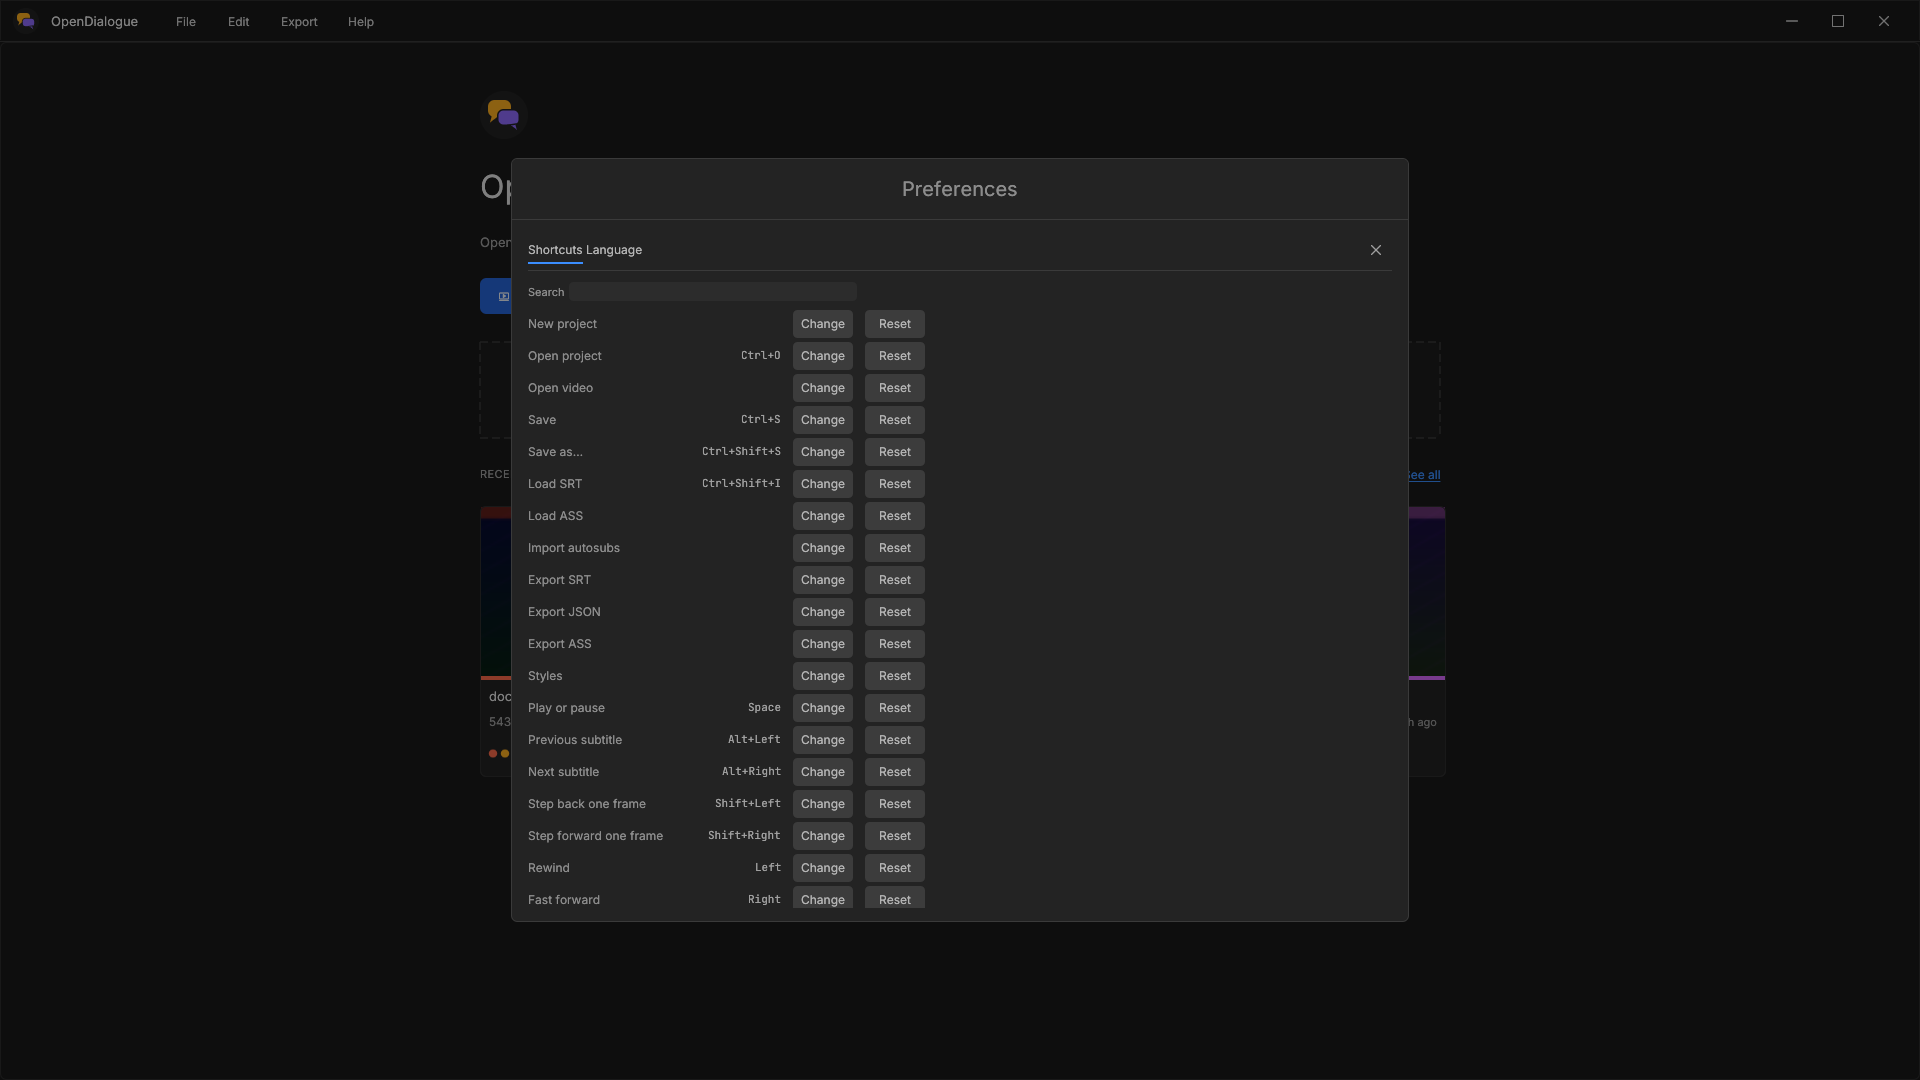
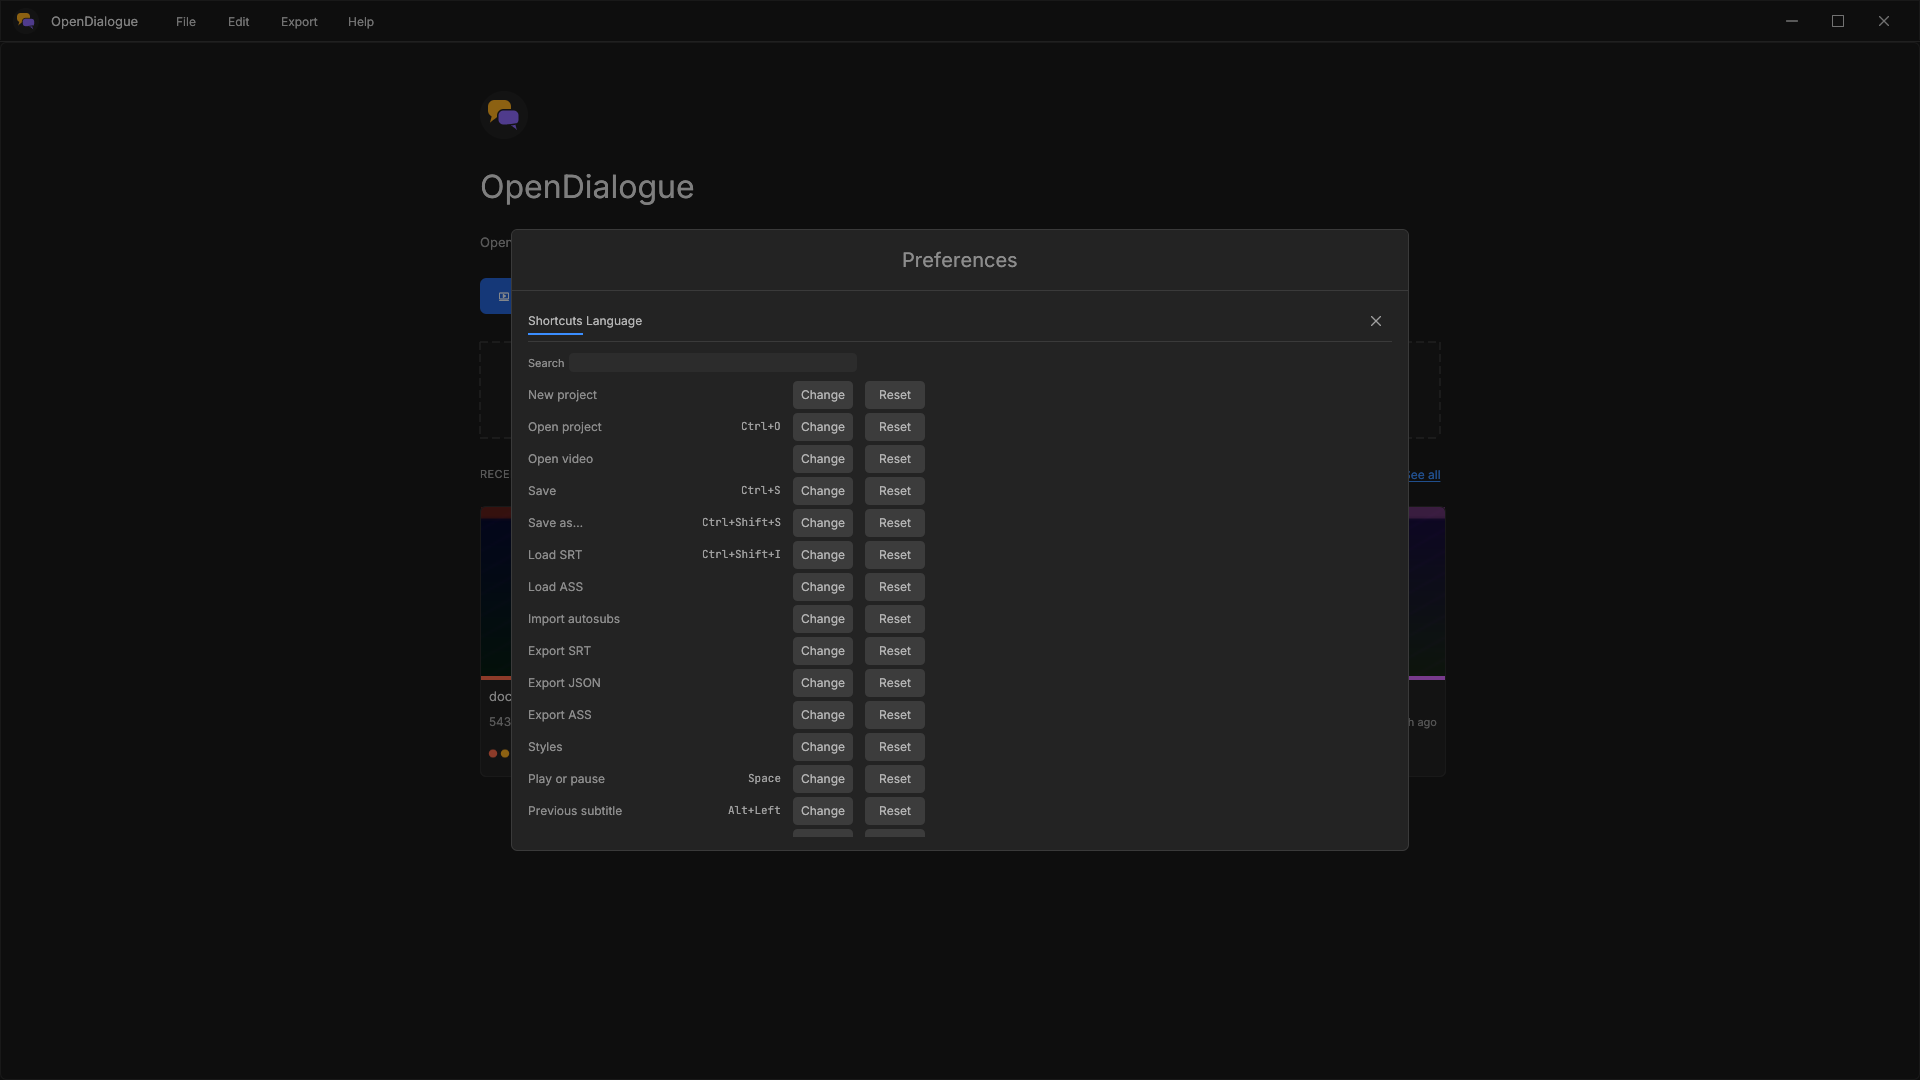
fix(ui): diálogos con scroll visible y atajo '?'

diff --git a/crates/app/src/ui/ajustes.rs b/crates/app/src/ui/ajustes.rs
@@ -133,7 +133,9 @@ pub fn mostrar(ctx: &egui::Context, prefs: &mut Preferencias, estado: &mut Estad
     // estrecho que un panel cómodo, con los topes tomados de `tema`.
     let pantalla = ctx.content_rect().size();
     let ancho = (pantalla.x * 0.45).clamp(tema::ANCHO_PANEL_DEFECTO * 2.0, tema::ANCHO_CONTENEDOR);
-    let alto = (pantalla.y * 0.62).clamp(tema::ALTO_VIDEO_MIN * 4.0, tema::ESP_72 * 10.0);
+    let alto = (pantalla.y * 0.62)
+        .clamp(tema::ALTO_VIDEO_MIN * 4.0, tema::ESP_72 * 10.0)
+        .min(pantalla.y - tema::ESP_32);
     let marco = egui::Frame {
         inner_margin: egui::Margin::same(tema::ESP_16 as i8),
         outer_margin: egui::Margin::ZERO,
@@ -278,79 +280,88 @@ pub fn mostrar(ctx: &egui::Context, prefs: &mut Preferencias, estado: &mut Estad
                         .map(|atajo| ancho_texto(ui, &atajo.to_string(), fuente_mono.clone()))
                         .fold(0.0, f32::max)
                         .max(tema::ANCHO_KEYCAP_MIN);
-                    egui::ScrollArea::vertical().show(ui, |ui| {
-                        egui::Grid::new("atajos-ajustes")
-                            .num_columns(4)
-                            .spacing(egui::vec2(tema::ESP_12, tema::ESP_4))
-                            .show(ui, |ui| {
-                                for comando in visibles {
-                                    let etiqueta = textos.comando(comando);
-                                    ui.allocate_ui_with_layout(
-                                        egui::vec2(ancho_etiqueta, tema::ALTO_CONTROL),
-                                        egui::Layout::left_to_right(egui::Align::Center),
-                                        |ui| {
-                                            ui.label(
-                                                RichText::new(etiqueta).font(fuente_base.clone()),
+                    // El tirador de la barra usa `inactive.bg_fill`: sin este
+                    // valor el scroll existe pero no se ve en el modal.
+                    ui.visuals_mut().widgets.inactive.bg_fill = tema::CONTROL;
+                    egui::ScrollArea::vertical()
+                        .auto_shrink(false)
+                        .max_height(alto - tema::ESP_72 * 3.0)
+                        .scroll_bar_visibility(
+                            egui::scroll_area::ScrollBarVisibility::AlwaysVisible,
+                        )
+                        .show(ui, |ui| {
+                            egui::Grid::new("atajos-ajustes")
+                                .num_columns(4)
+                                .spacing(egui::vec2(tema::ESP_12, tema::ESP_4))
+                                .show(ui, |ui| {
+                                    for comando in visibles {
+                                        let etiqueta = textos.comando(comando);
+                                        ui.allocate_ui_with_layout(
+                                            egui::vec2(ancho_etiqueta, tema::ALTO_CONTROL),
+                                            egui::Layout::left_to_right(egui::Align::Center),
+                                            |ui| {
+                                                ui.label(
+                                                    RichText::new(etiqueta)
+                                                        .font(fuente_base.clone()),
+                                                );
+                                            },
+                                        );
+                                        let atajo = prefs
+                                            .atajos
+                                            .atajo(comando)
+                                            .map(|atajo| atajo.to_string())
+                                            .unwrap_or_default();
+                                        ui.allocate_ui_with_layout(
+                                            egui::vec2(ancho_atajo, tema::ALTO_CONTROL),
+                                            egui::Layout::right_to_left(egui::Align::Center),
+                                            |ui| {
+                                                ui.label(
+                                                    RichText::new(atajo)
+                                                        .font(fuente_mono.clone())
+                                                        .color(tema::TEXTO_2),
+                                                );
+                                            },
+                                        );
+                                        let r =
+                                            ui.add(
+                                                egui::Button::new(
+                                                    RichText::new(textos.cambiar)
+                                                        .font(fuente_base.clone()),
+                                                )
+                                                .min_size(egui::vec2(
+                                                    tema::ANCHO_BOTON_MIN / 2.0,
+                                                    tema::ALTO_CONTROL,
+                                                )),
                                             );
-                                        },
-                                    );
-                                    let atajo = prefs
-                                        .atajos
-                                        .atajo(comando)
-                                        .map(|atajo| atajo.to_string())
-                                        .unwrap_or_default();
-                                    ui.allocate_ui_with_layout(
-                                        egui::vec2(ancho_atajo, tema::ALTO_CONTROL),
-                                        egui::Layout::right_to_left(egui::Align::Center),
-                                        |ui| {
-                                            ui.label(
-                                                RichText::new(atajo)
-                                                    .font(fuente_mono.clone())
-                                                    .color(tema::TEXTO_2),
+                                        if r.has_focus() {
+                                            kit::anillo_foco(ui, &r);
+                                        }
+                                        if r.clicked() {
+                                            estado.capturando = Some(comando);
+                                            estado.conflicto = None;
+                                        }
+                                        let r =
+                                            ui.add(
+                                                egui::Button::new(
+                                                    RichText::new(textos.restablecer)
+                                                        .font(fuente_base.clone()),
+                                                )
+                                                .min_size(egui::vec2(
+                                                    tema::ANCHO_BOTON_MIN / 2.0,
+                                                    tema::ALTO_CONTROL,
+                                                )),
                                             );
-                                        },
-                                    );
-                                    let r = ui.add(
-                                        egui::Button::new(
-                                            RichText::new(textos.cambiar).font(fuente_base.clone()),
-                                        )
-                                        .min_size(
-                                            egui::vec2(
-                                                tema::ANCHO_BOTON_MIN / 2.0,
-                                                tema::ALTO_CONTROL,
-                                            ),
-                                        ),
-                                    );
-                                    if r.has_focus() {
-                                        kit::anillo_foco(ui, &r);
+                                        if r.has_focus() {
+                                            kit::anillo_foco(ui, &r);
+                                        }
+                                        if r.clicked() {
+                                            prefs.atajos.restablecer(comando);
+                                            cambiado = true;
+                                        }
+                                        ui.end_row();
                                     }
-                                    if r.clicked() {
-                                        estado.capturando = Some(comando);
-                                        estado.conflicto = None;
-                                    }
-                                    let r = ui.add(
-                                        egui::Button::new(
-                                            RichText::new(textos.restablecer)
-                                                .font(fuente_base.clone()),
-                                        )
-                                        .min_size(
-                                            egui::vec2(
-                                                tema::ANCHO_BOTON_MIN / 2.0,
-                                                tema::ALTO_CONTROL,
-                                            ),
-                                        ),
-                                    );
-                                    if r.has_focus() {
-                                        kit::anillo_foco(ui, &r);
-                                    }
-                                    if r.clicked() {
-                                        prefs.atajos.restablecer(comando);
-                                        cambiado = true;
-                                    }
-                                    ui.end_row();
-                                }
-                            });
-                    });
+                                });
+                        });
                 }
             }
 

diff --git a/crates/app/src/ui/atajos.rs b/crates/app/src/ui/atajos.rs
@@ -51,7 +51,7 @@ pub fn mostrar(
     let pantalla = ctx.content_rect().size();
     let ancho =
         (pantalla.x * 0.35).clamp(tema::ANCHO_PANEL_DEFECTO * 1.5, tema::ANCHO_FILTRO * 4.0);
-    let alto = (pantalla.y * 0.53).clamp(tema::ALTO_CABECERA * 8.0, tema::ESP_72 * 8.0);
+    let alto = (pantalla.y - tema::ESP_32 * 2.0).min(tema::ESP_72 * 8.0);
     let marco = egui::Frame {
         inner_margin: egui::Margin::same(tema::ESP_16 as i8),
         fill: tema::PANEL,
@@ -81,51 +81,59 @@ pub fn mostrar(
                 .map(|comando| ancho_texto(ui, textos.comando(*comando), fuente_base.clone()))
                 .fold(0.0, f32::max)
                 + tema::ESP_12;
-            egui::ScrollArea::vertical().show(ui, |ui| {
-                let mut seccion_actual = None;
-                for comando in Comando::todas() {
-                    let seccion = crate::comandos::seccion(*comando);
-                    if Some(seccion) != seccion_actual {
-                        seccion_actual = Some(seccion);
-                        ui.add_space(tema::ESP_8);
-                        // Etiqueta de sección con familia siempre registrada:
-                        // `set_fonts` solo activa las fuentes nombradas en el
-                        // siguiente pass, y este panel se dibuja en el primero.
-                        tema::etiqueta(ui, nombre_seccion(seccion, textos));
-                    }
-                    ui.horizontal(|ui| {
-                        ui.allocate_ui_with_layout(
-                            egui::vec2(ancho_etiqueta, tema::ALTO_CONTROL),
-                            egui::Layout::left_to_right(egui::Align::Center),
-                            |ui| {
-                                ui.label(
-                                    RichText::new(textos.comando(*comando))
-                                        .font(fuente_base.clone())
-                                        .color(tema::TEXTO),
-                                );
-                            },
-                        );
-                        ui.with_layout(egui::Layout::right_to_left(egui::Align::Center), |ui| {
-                            let atajo = atajos
-                                .atajo(*comando)
-                                .map(|atajo| atajo.to_string())
-                                .unwrap_or_else(|| textos.sin_atajo.to_owned());
-                            // `?` es ambiguo en la fuente mono: se explicita
-                            // con la clave «None»/«Sin atajo».
-                            let atajo: &str = if atajo == "?" {
-                                textos.sin_atajo
-                            } else {
-                                atajo.as_str()
-                            };
-                            ui.label(
-                                RichText::new(atajo)
-                                    .font(tema::fuente(Estilo::Mono))
-                                    .color(tema::TEXTO_2),
+            ui.visuals_mut().widgets.inactive.bg_fill = tema::CONTROL;
+            egui::ScrollArea::vertical()
+                .auto_shrink(false)
+                .max_height(alto - tema::ESP_72 * 2.0)
+                .scroll_bar_visibility(egui::scroll_area::ScrollBarVisibility::AlwaysVisible)
+                .show(ui, |ui| {
+                    let mut seccion_actual = None;
+                    for comando in Comando::todas() {
+                        let seccion = crate::comandos::seccion(*comando);
+                        if Some(seccion) != seccion_actual {
+                            seccion_actual = Some(seccion);
+                            ui.add_space(tema::ESP_8);
+                            // Etiqueta de sección con familia siempre registrada:
+                            // `set_fonts` solo activa las fuentes nombradas en el
+                            // siguiente pass, y este panel se dibuja en el primero.
+                            tema::etiqueta(ui, nombre_seccion(seccion, textos));
+                        }
+                        ui.horizontal(|ui| {
+                            ui.allocate_ui_with_layout(
+                                egui::vec2(ancho_etiqueta, tema::ALTO_CONTROL),
+                                egui::Layout::left_to_right(egui::Align::Center),
+                                |ui| {
+                                    ui.label(
+                                        RichText::new(textos.comando(*comando))
+                                            .font(fuente_base.clone())
+                                            .color(tema::TEXTO),
+                                    );
+                                },
+                            );
+                            ui.with_layout(
+                                egui::Layout::right_to_left(egui::Align::Center),
+                                |ui| {
+                                    let atajo = atajos
+                                        .atajo(*comando)
+                                        .map(|atajo| atajo.to_string())
+                                        .unwrap_or_else(|| textos.sin_atajo.to_owned());
+                                    // `?` es ambiguo en la fuente mono: se explicita
+                                    // con la clave «None»/«Sin atajo».
+                                    let atajo: &str = if atajo == "?" {
+                                        textos.sin_atajo
+                                    } else {
+                                        atajo.as_str()
+                                    };
+                                    ui.label(
+                                        RichText::new(atajo)
+                                            .font(tema::fuente(Estilo::Mono))
+                                            .color(tema::TEXTO_2),
+                                    );
+                                },
                             );
                         });
-                    });
-                }
-            });
+                    }
+                });
             let r = ui.button(textos.cancelar);
             if r.has_focus() {
                 kit::anillo_foco(ui, &r);

diff --git a/crates/app/src/comandos.rs b/crates/app/src/comandos.rs
@@ -252,7 +252,12 @@ impl std::fmt::Display for Atajo {
         if self.alt {
             write!(f, "Alt+")?;
         }
-        write!(f, "{}", self.tecla.name())
+        let tecla = if self.tecla == Key::Questionmark {
+            "?"
+        } else {
+            self.tecla.name()
+        };
+        write!(f, "{tecla}")
     }
 }
 
